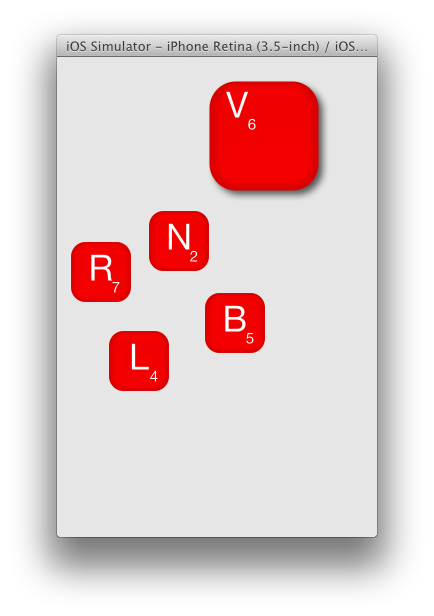
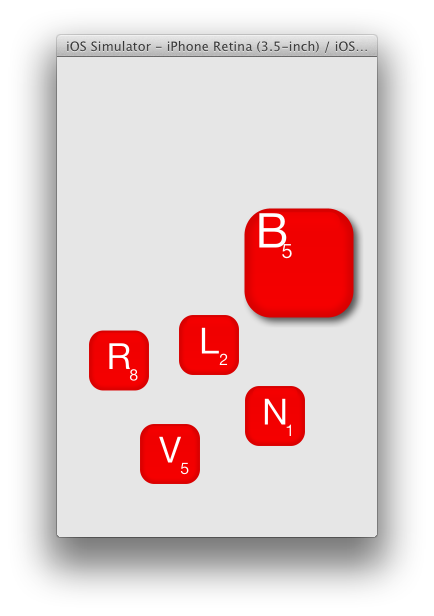
Try to increase label font sizes when touched

diff --git a/DragTiles/DragTiles/Tile.m b/DragTiles/DragTiles/Tile.m
@@ -48,13 +48,19 @@ static UIImage* kDragged;
 - (void)touchesBegan:(NSSet*)touches withEvent:(UIEvent*)event
 {
     _background.image = kDragged;
-    
+    [_letter setFont:[UIFont systemFontOfSize:48]];
+    [_value setFont:[UIFont systemFontOfSize:20]];
+
+    [self.superview bringSubviewToFront:self];
+
     [super touchesBegan:touches withEvent:event];
 }
 
 - (void)touchesEnded:(NSSet*)touches withEvent:(UIEvent*)event
 {
     _background.image = kTile;
+    [_letter setFont:[UIFont systemFontOfSize:36]];
+    [_value setFont:[UIFont systemFontOfSize:16]];
     
     [super touchesEnded:touches withEvent:event];
 }
@@ -62,6 +68,8 @@ static UIImage* kDragged;
 - (void)touchesCancelled:(NSSet*)touches withEvent:(UIEvent*)event
 {
     _background.image = kTile;
+    [_letter setFont:[UIFont systemFontOfSize:36]];
+    [_value setFont:[UIFont systemFontOfSize:16]];
     
     [super touchesCancelled:touches withEvent:event];
 }

diff --git a/DragTiles/DragTiles/ViewController.m b/DragTiles/DragTiles/ViewController.m
@@ -35,10 +35,6 @@ static int const kHeight   = 60;
 {
     Tile *tile = (Tile*)recognizer.view;
     
-    if (recognizer.state == UIGestureRecognizerStateBegan) {
-        [self.view bringSubviewToFront:tile];
-    }
-
     if (recognizer.state == UIGestureRecognizerStateBegan ||
         recognizer.state == UIGestureRecognizerStateChanged) {
         
